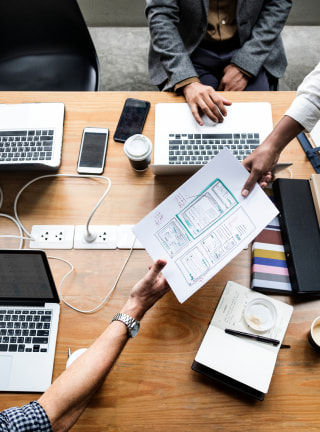
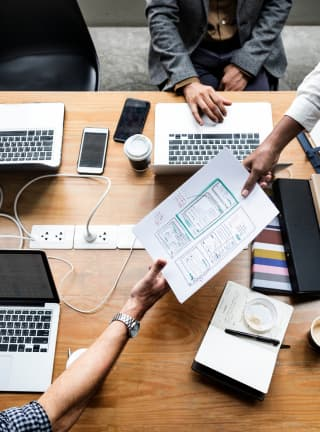
images/hero/bg_mobile@2x.jpg

diff --git a/css/style.css b/css/style.css
@@ -119,7 +119,14 @@ button {
     fill: #2f2f37;
 }
 
+@media screen and (max-width: 767px) {
+    .header-container {
+        padding: 16px;
+    }
+}
+
 @media screen and (min-width: 768px) {
+
     .btn-burger {
        display: none; 
     }
@@ -394,11 +401,18 @@ button {
     max-width: none;
     margin: 0 auto;
     background-image: linear-gradient(rgba(46, 47, 66, 0.7), rgba(46, 47, 66, 0.7)),
-            url("../images/hero/bg_mobile.jpg") 1x,
-            url("../images/hero/bg_mobile_2x.jpg") 2x;
+            url("../images/hero/bg_mobile.jpg") 1x;
     background-size: cover;
     background-repeat: no-repeat;
     background-position: center;
+}
+
+@media screen and (min-resolution: 192dpi),
+screen and (min-resolution: 2dppx) {
+    .hero {
+        background-image: linear-gradient(rgba(46, 47, 66, 0.7), rgba(46, 47, 66, 0.7)),
+            url("../images/hero/bg_mobile@2x.jpg");
+    }
 }
 
 .hero-title {

diff --git a/css/style-old.css b/css/style-old.css
@@ -176,7 +176,7 @@ span.logo_style {
     padding: 188px 0;
     height: 600px;
     background-image: linear-gradient( rgba(46, 47, 66, 0.7), rgba(46, 47, 66, 0.7)), 
-    url(../images/hero/bg.jpg);
+    url(../images/hero/bg_mobile.jpg);
     background-size: cover;
     background-repeat: no-repeat;
     background-position: center;
